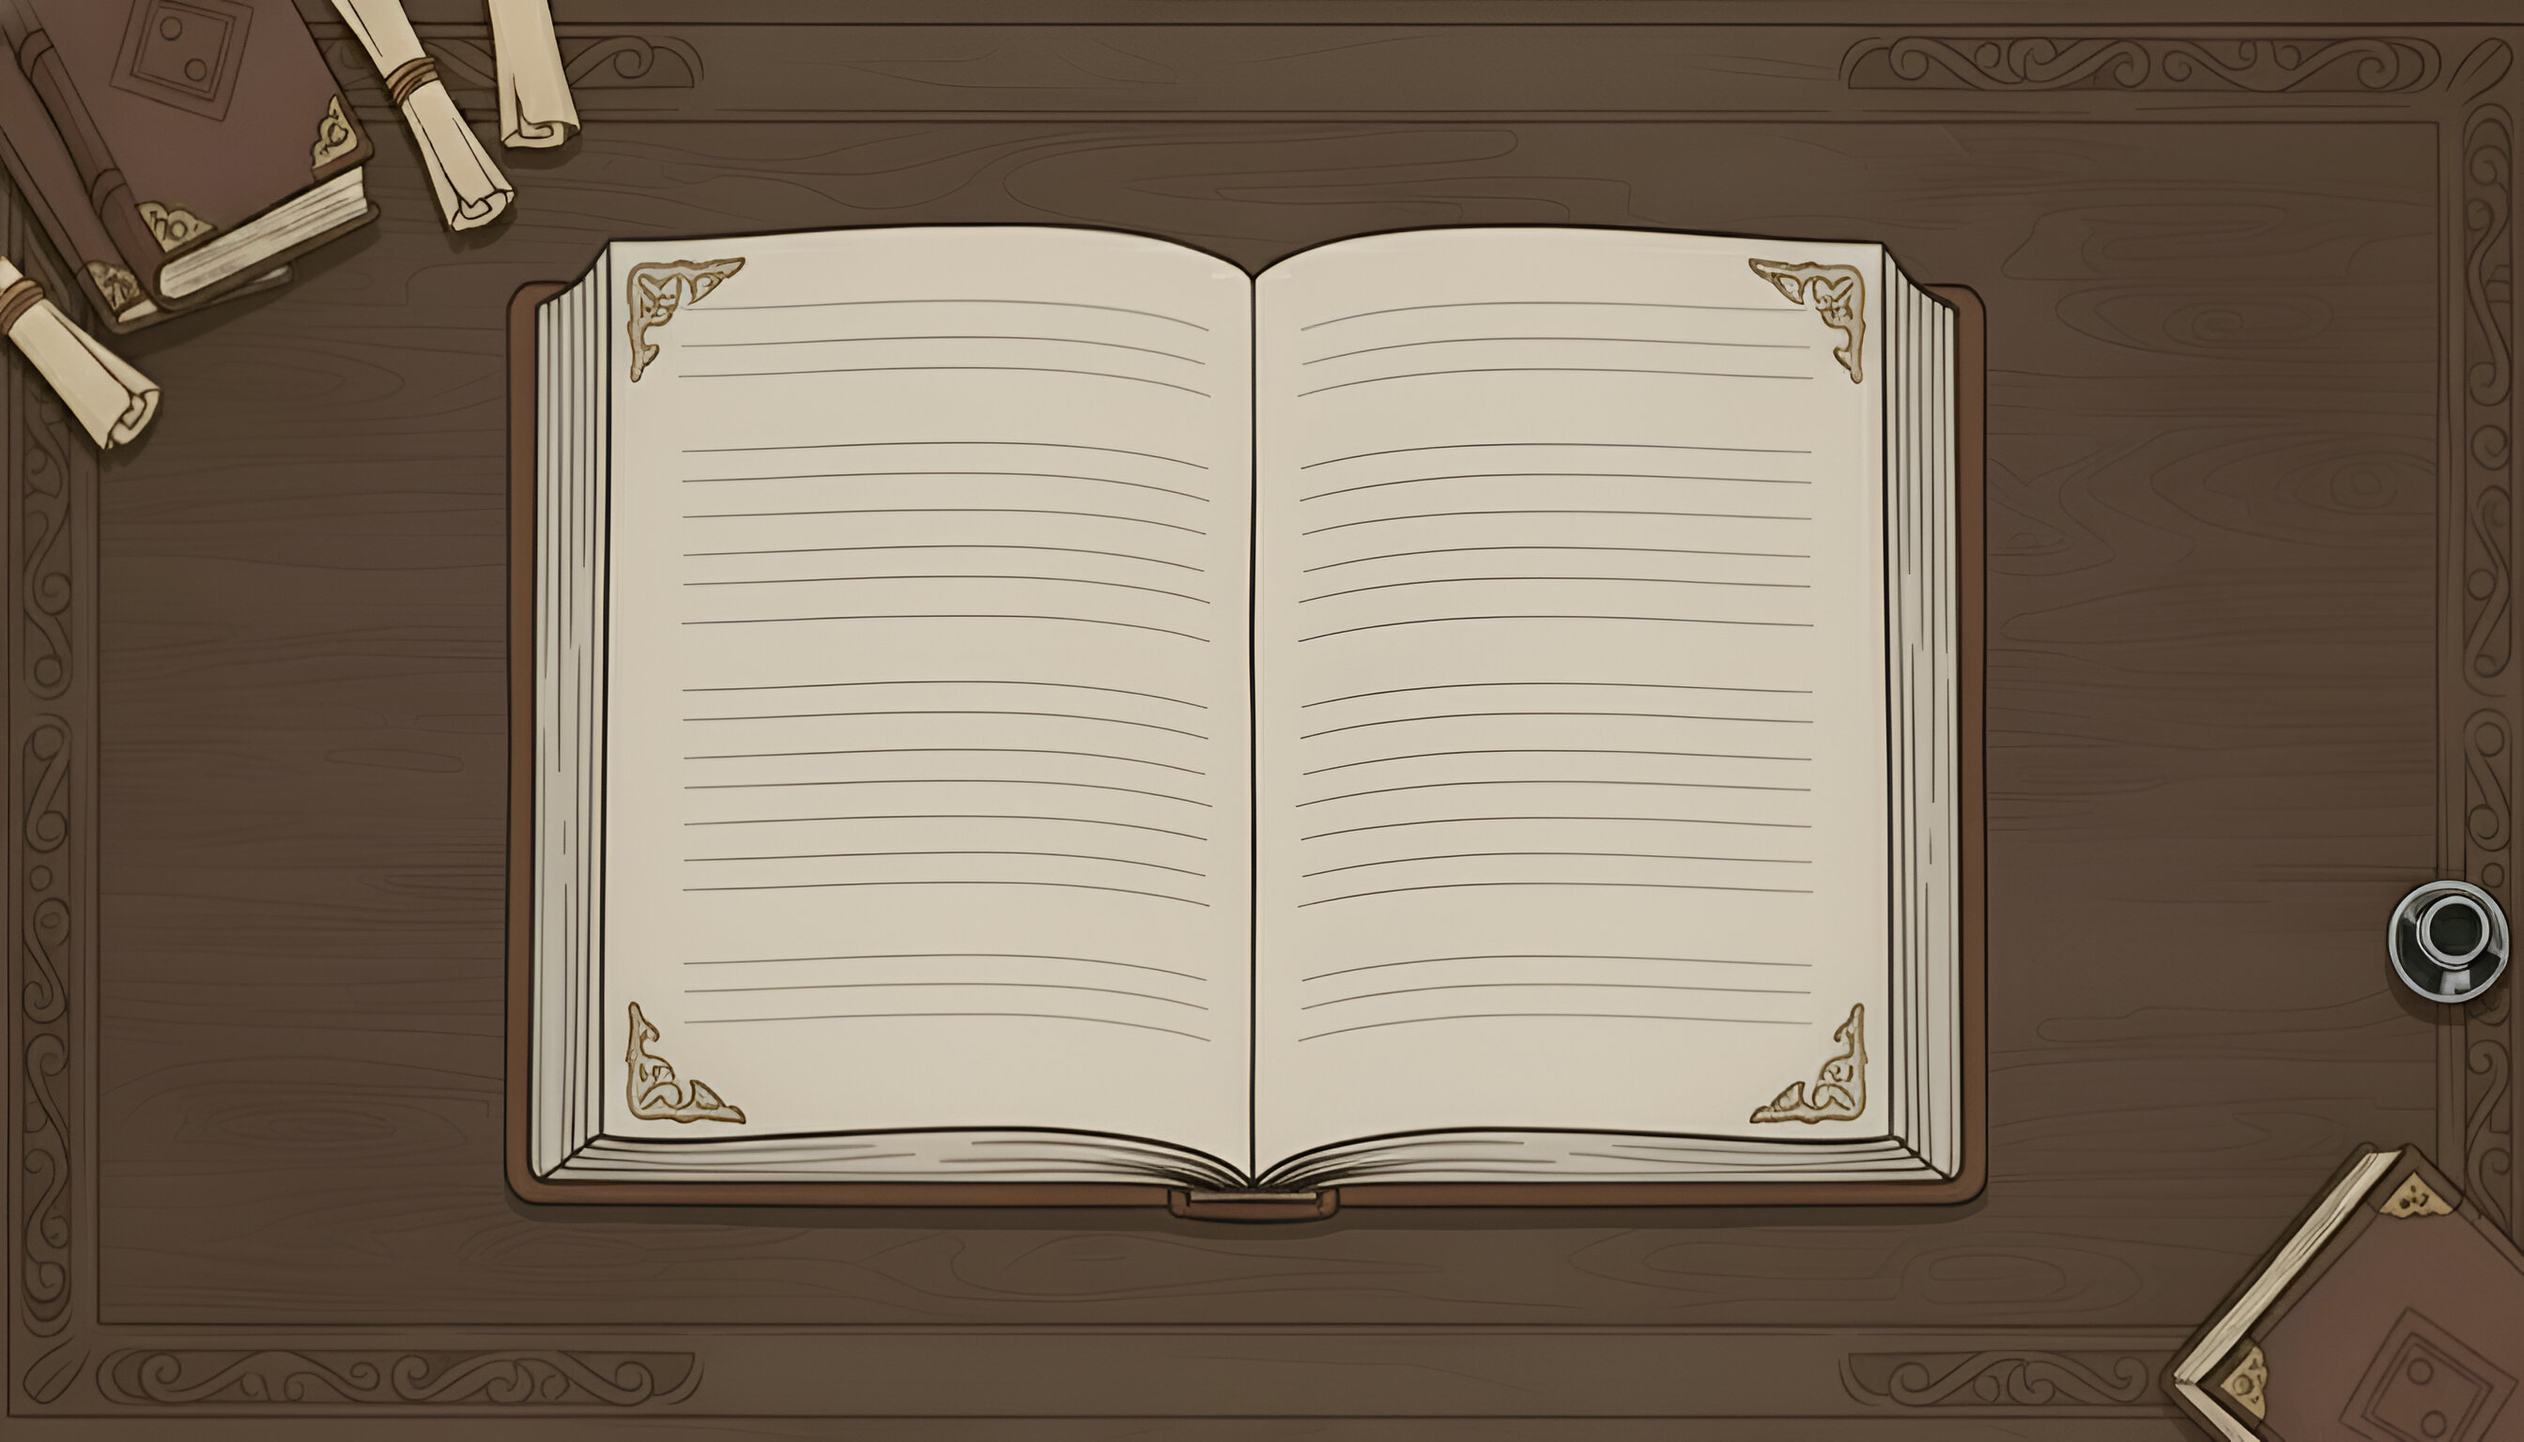
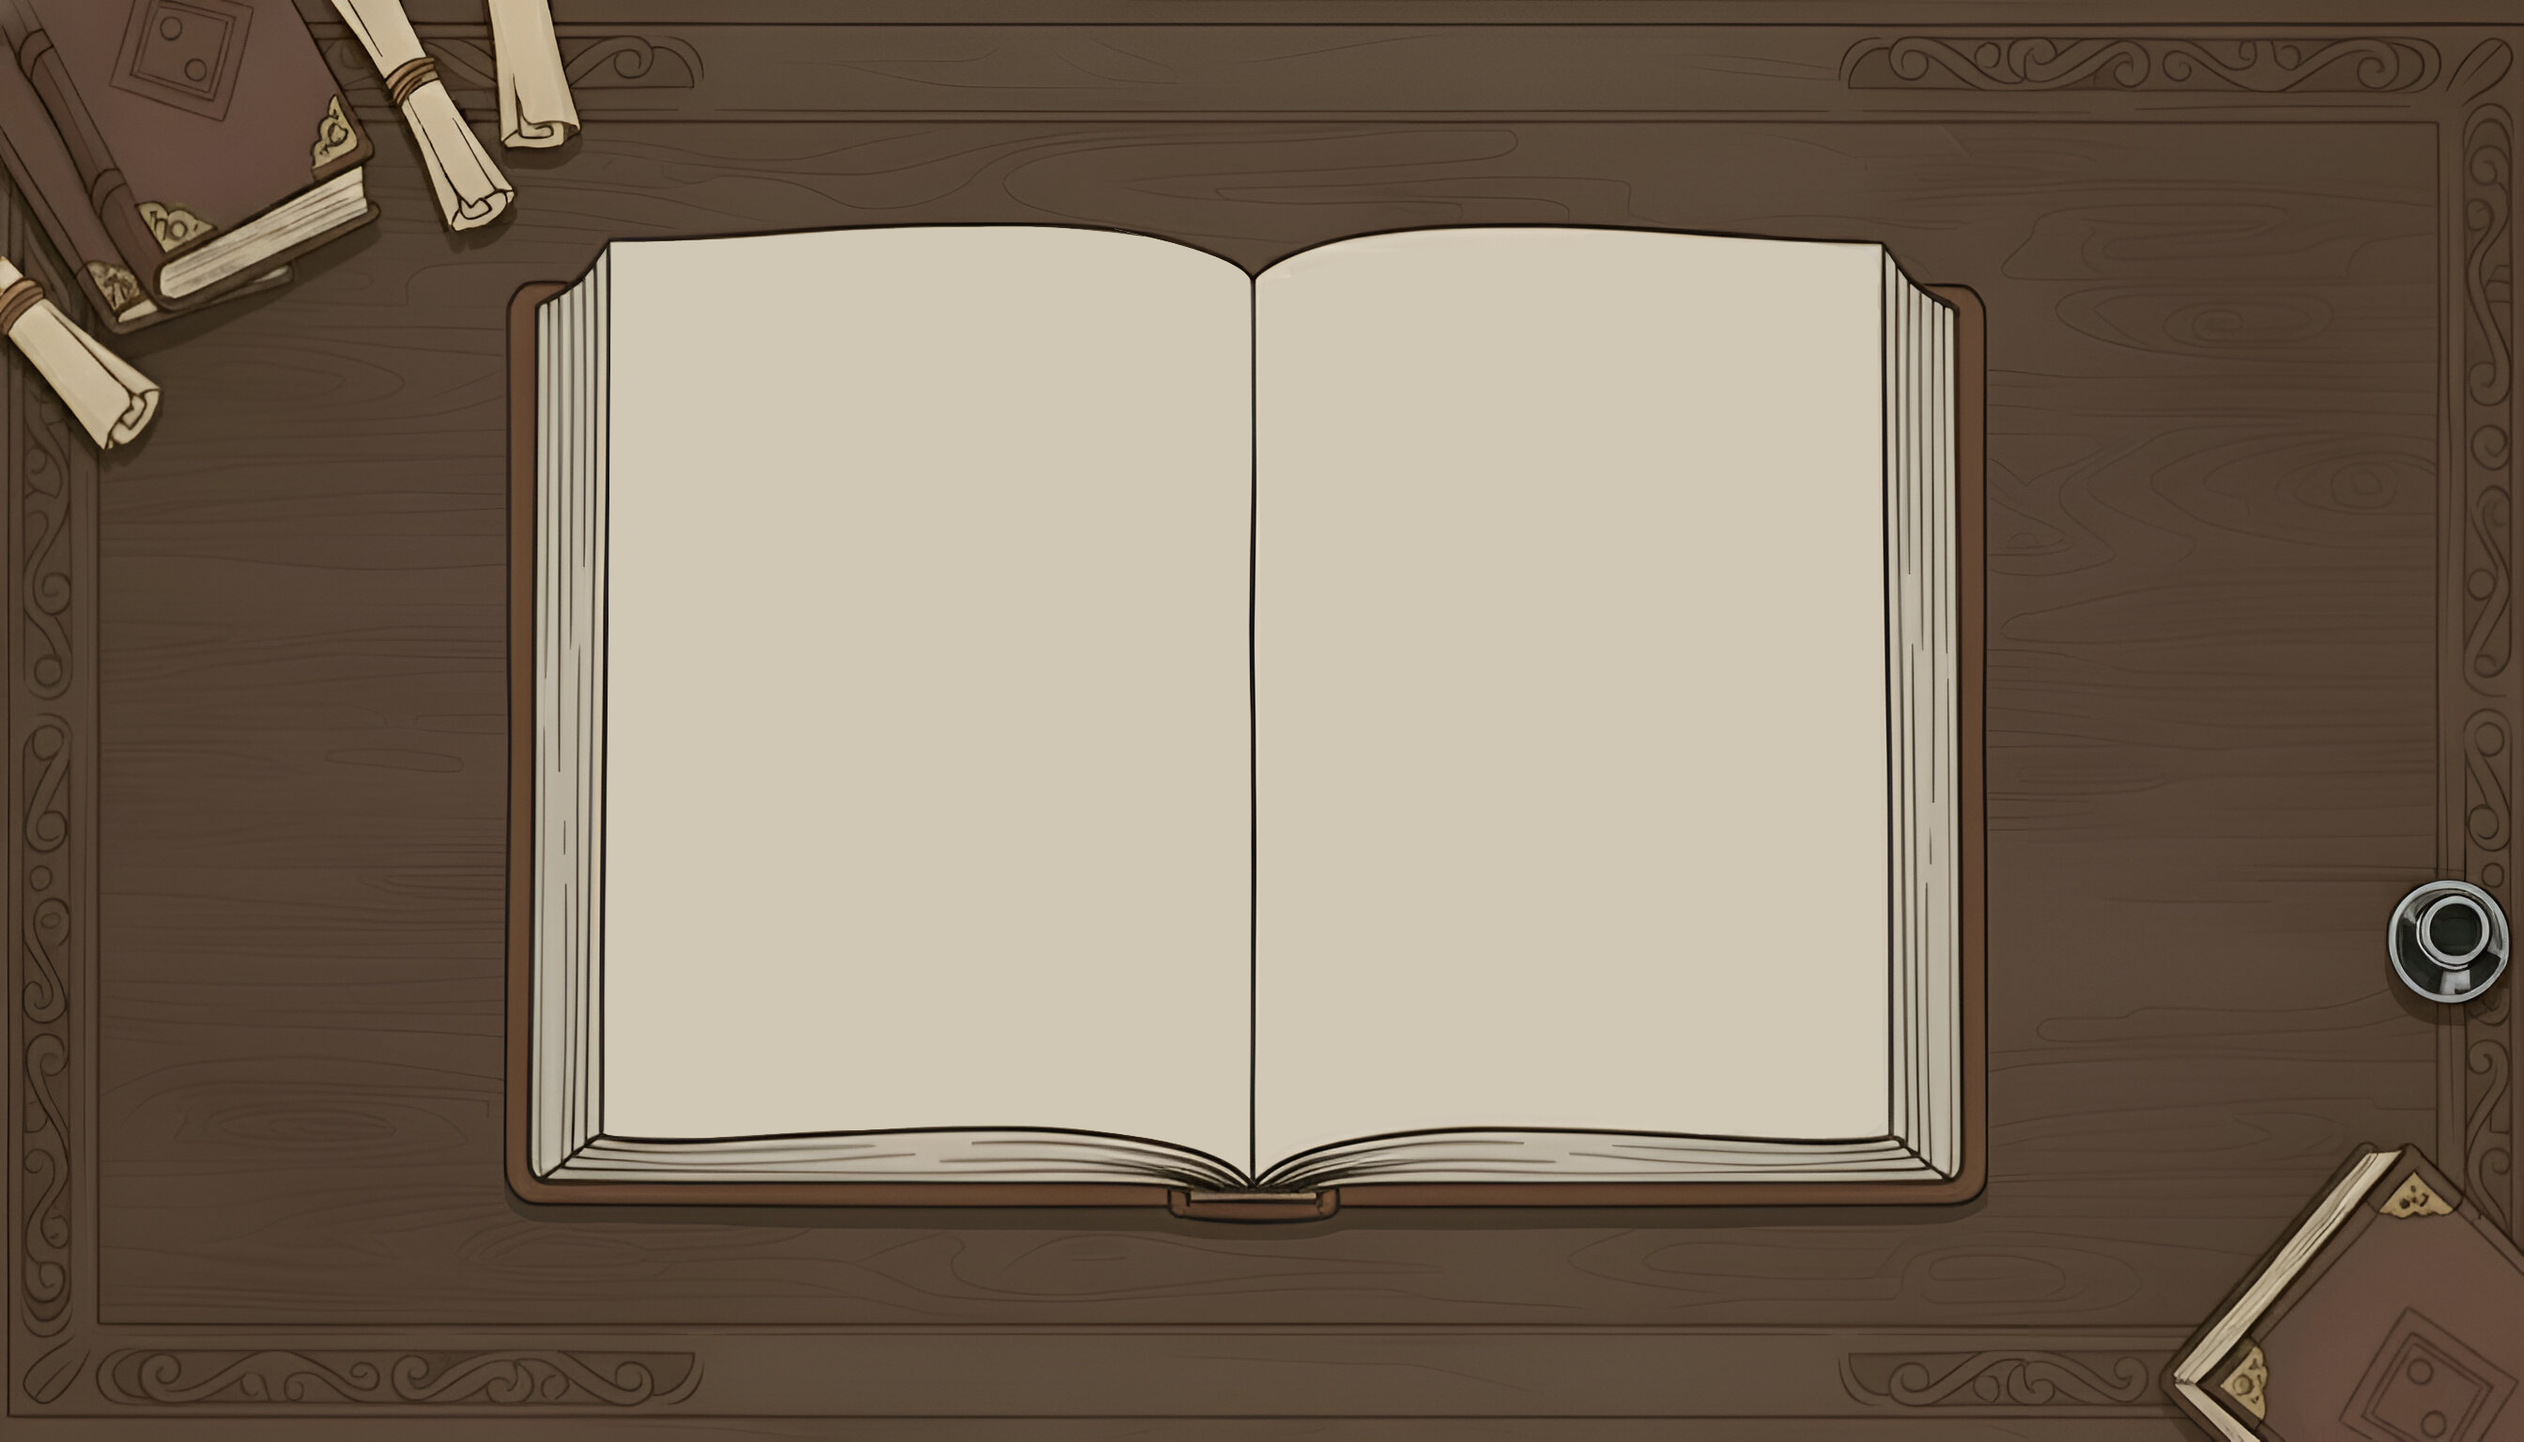
paginas manuscrito

diff --git a/Manuscrito/src/game.cpp b/Manuscrito/src/game.cpp
@@ -25,11 +25,11 @@ constexpr const char* const imgBase = "../assets/images/";
 constexpr array<TextureSpec, Game::NUM_TEXTURES> textureList{
 	TextureSpec{"fondo.jpg"},
 	{"chino.jpeg"},
-	{"hoja1.png"},
-	{"hoja2.png"},
+	{"Hoja1.png"},
 	{"hoja3.png"},
 	{"hoja4.png"},
-	{"hoja5.png"}
+	{"hoja5.png"},
+	{"HojaVacia.png"}
 };
 
 vector<GameObject*> Game::gameObjects;
@@ -276,7 +276,7 @@ void Game::createGameObjects() {
 
 	GameObject* hoja2 = new GameObject("Hoja2", 2);
 	hoja2->addComponent<Transform>(Vector2D<float>(w / 2 + 400, h / 2), Vector2D<float>(1, 1));
-	hoja2->addComponent<SpriteRenderer>(getTexture(HOJA2), 0, 0);
+	hoja2->addComponent<SpriteRenderer>(getTexture(HOJA1), 0, 0);
 
 	GameObject* hoja3 = new GameObject("Hoja3", 2);
 	hoja3->addComponent<Transform>(Vector2D<float>(w / 2 + 400, h / 2), Vector2D<float>(1, 1));
@@ -302,6 +302,6 @@ void Game::createGameObjects() {
 	bookPages.push_back(hoja4);
 	bookPages.push_back(hoja5);
 
-	manuscrito = new Book(bookPages, w / 2 - 8, h / 2 - 25, 300);
+	manuscrito = new Book(bookPages, w / 2 - 8, h / 2 - 25, 320);
 	pagesCount = manuscrito->getPageCount();
 }

diff --git a/Manuscrito/src/game.h b/Manuscrito/src/game.h
@@ -29,10 +29,10 @@ public:
 		BACKGROUND,
 		CHINO,
 		HOJA1,
-		HOJA2,
 		HOJA3,
 		HOJA4,
 		HOJA5,
+		HOJA_VACIA,
 		NUM_TEXTURES
 	};
 
